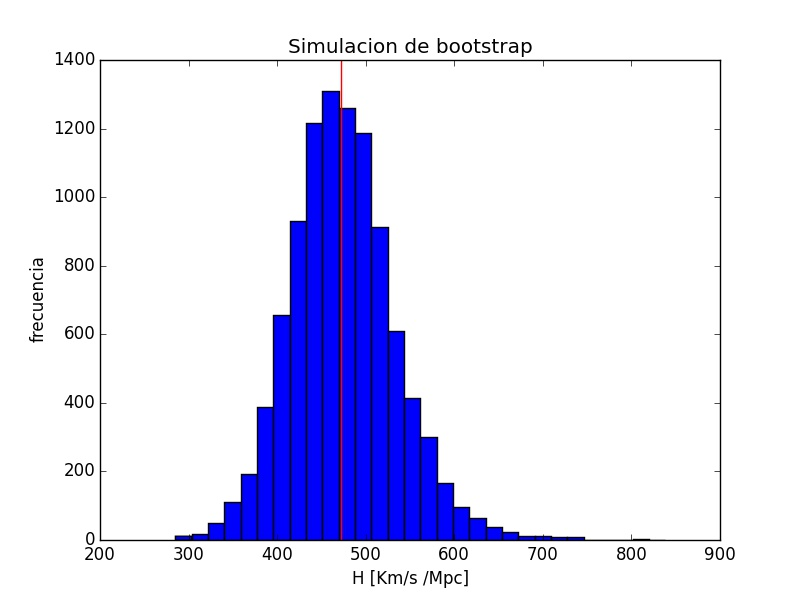
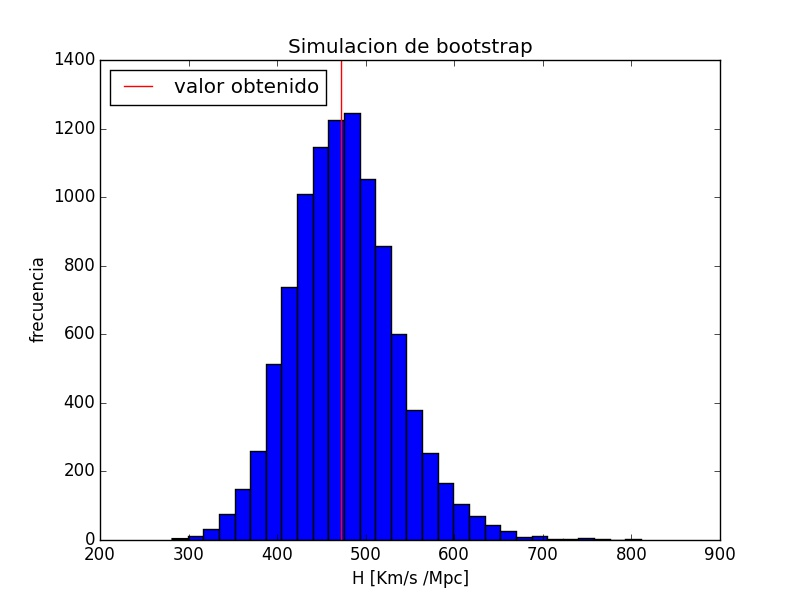
print resultados

Changed region(s): [[0.125, 0.09, 0.75, 0.9]]

diff --git a/p3.py b/p3.py
@@ -15,10 +15,10 @@ def mostrar_datos(banda_i, error_i, banda_z, error_z, c):
     fig1 = plt.figure()
     ax1 = fig1.add_subplot(111)
     ax1.errorbar(banda_i, banda_z, xerr=error_i, yerr=error_z, fmt="o",
-                 label="Datos originales y ajuste lineal")
+                 label="Datos originales con error")
     x = np.linspace(-100, 500, 600)
     ax1.plot(x, c[1] + x*c[0], color="r", label="ajuste lineal")
-    ax1.set_title("Datos originales")
+    ax1.set_title("Datos originales y ajuste lineal")
     ax1.set_xlabel("Flujo banda i [$10^{-6}Jy$]")
     ax1.set_ylabel("Flujo banda z [$10^{-6}Jy$]")
     plt.legend(loc=2)
@@ -74,7 +74,7 @@ error_i = data[:, 1] * 3.631
 banda_z = data[:, 2] * 3.631
 error_z = data[:, 3] * 3.631
 c = np.polyfit(banda_i, banda_z, 1)
-print(c)
+print("recta : {}x + {}".format(c[0],c[1]))
 intervalo_confianza = mc(banda_i, error_i, banda_z, error_z, c)
 mostrar_datos(banda_i, error_i, banda_z, error_z, c)
 plt.show()

diff --git a/p1.py b/p1.py
@@ -22,7 +22,7 @@ def mostrar_datos(distancia, vel, H1, H2, H_prom):
     fig.set_ylabel("Velocidad [Km/s]")
     plt.legend(loc=2)
     plt.savefig("hubble_1.jpg")
-    plt.show()
+
 
 
 def f_modelo_1(params, x):
@@ -64,7 +64,8 @@ def bootstrap(data, H_0):
         H[i] = a_prom
     fig2, ax2 = plt.subplots()
     plt.hist(H, bins=30)
-    plt.axvline(H_0, color='r')
+    plt.axvline(H_0, color='r', label="valor obtenido")
+    plt.legend(loc=2)
     ax2.set_title("Simulacion de bootstrap")
     ax2.set_xlabel("H [Km/s /Mpc]")
     ax2.set_ylabel("frecuencia")
@@ -87,6 +88,8 @@ a_optimo_2, a_covarianza_2 = curve_fit(func_a_minimizar_2,
                                        vel, distancia, 2)
 a_prom = (a_optimo_2 + a_optimo_1) / 2
 H_0 = a_prom
+print("H_0 = " + str(H_0))
 mostrar_datos(distancia, vel, a_optimo_1, a_optimo_2, a_prom)
 
 intervalo_confianza = bootstrap(data, H_0)
+plt.show()

diff --git a/p2.py b/p2.py
@@ -62,7 +62,8 @@ def bootstrap(data, H_0):
         H[i] = a_prom
     fig2, ax2 = plt.subplots()
     plt.hist(H, bins=30)
-    plt.axvline(H_0, color='r')
+    plt.axvline(H_0, color='r', label="valor obtenido")
+    plt.legend(loc=2)
     ax2.set_title("Simulacion de bootstrap")
     ax2.set_xlabel("H [Km/s /Mpc]")
     ax2.set_ylabel("frecuencia")
@@ -85,6 +86,7 @@ a_optimo_2, a_covarianza_2 = curve_fit(func_a_minimizar_2,
                                        vel, distancia, 2)
 a_prom = (a_optimo_2 + a_optimo_1) / 2
 H_0 = a_prom
+print("H_0 = {}".format(H_0))
 mostrar_datos(distancia, vel, a_optimo_1, a_optimo_2, a_prom)
 
 intervalo_confianza = bootstrap(data, H_0)
